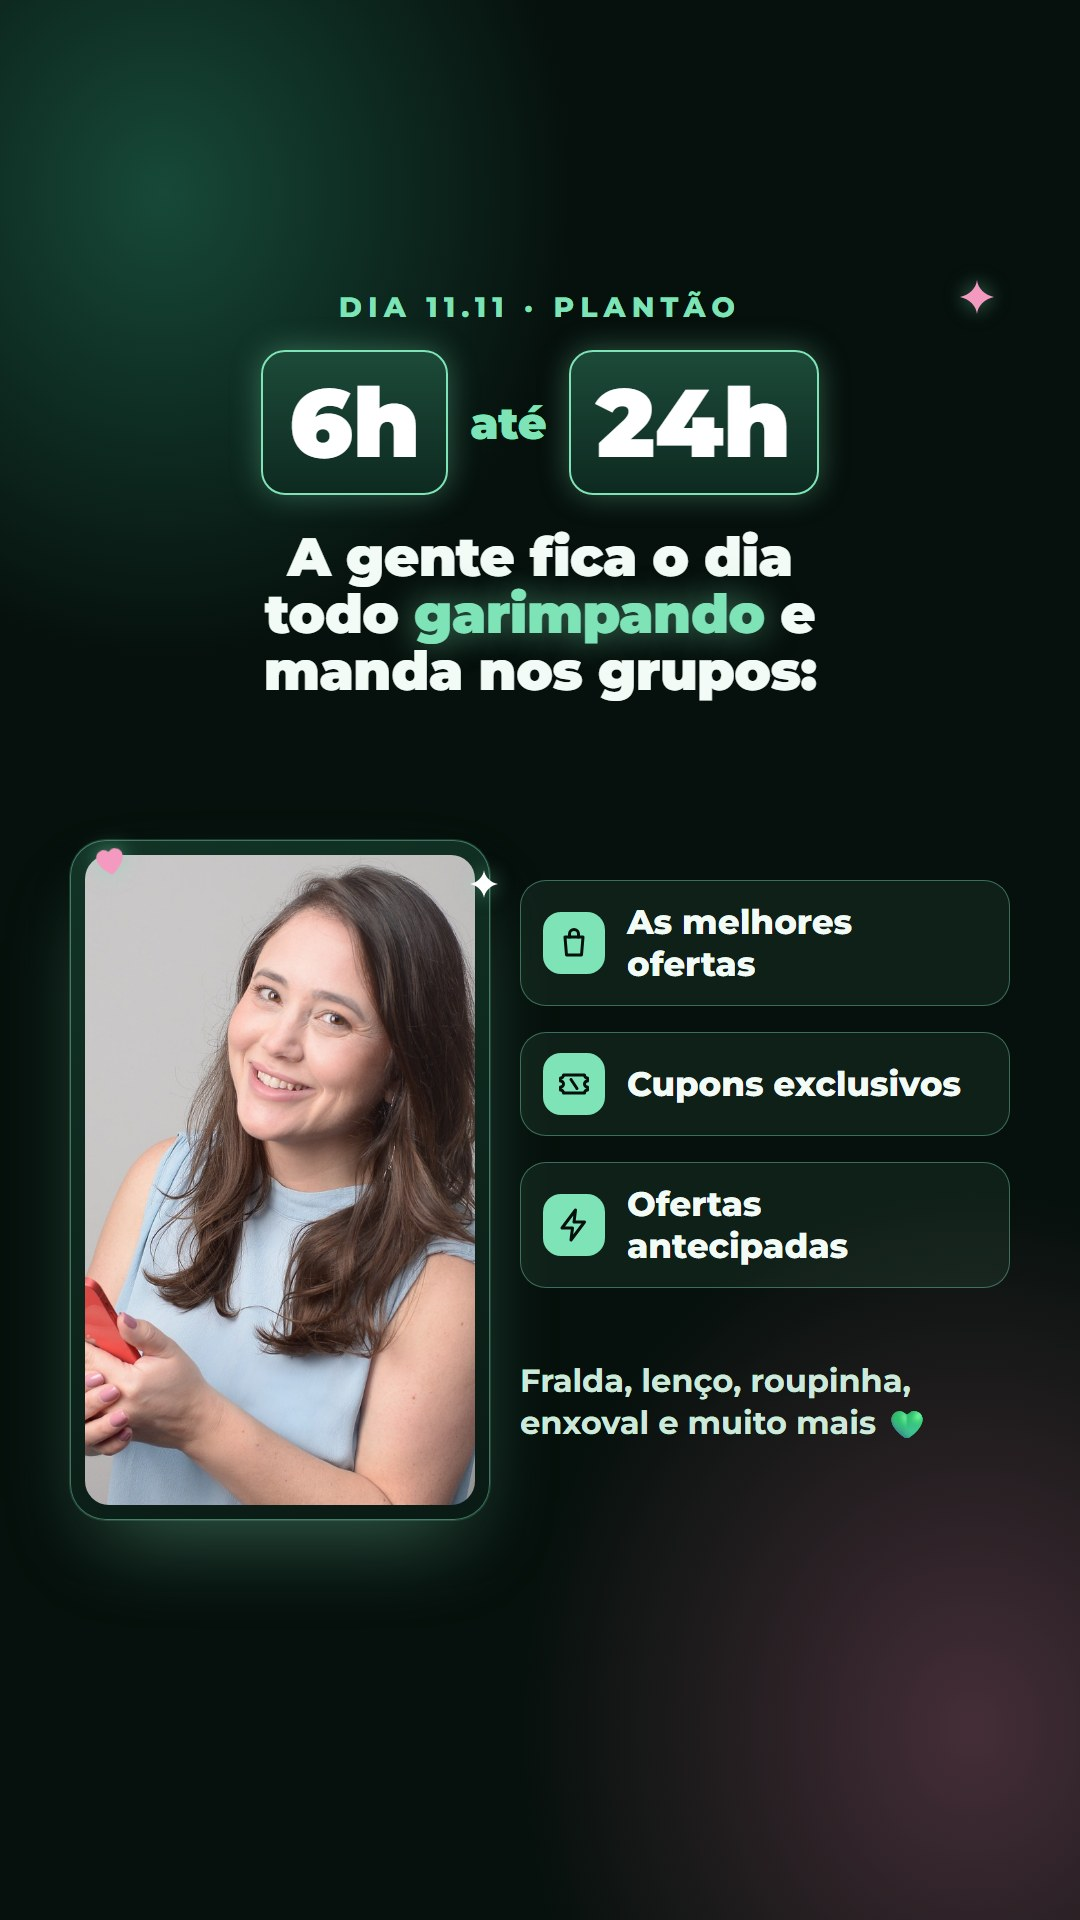
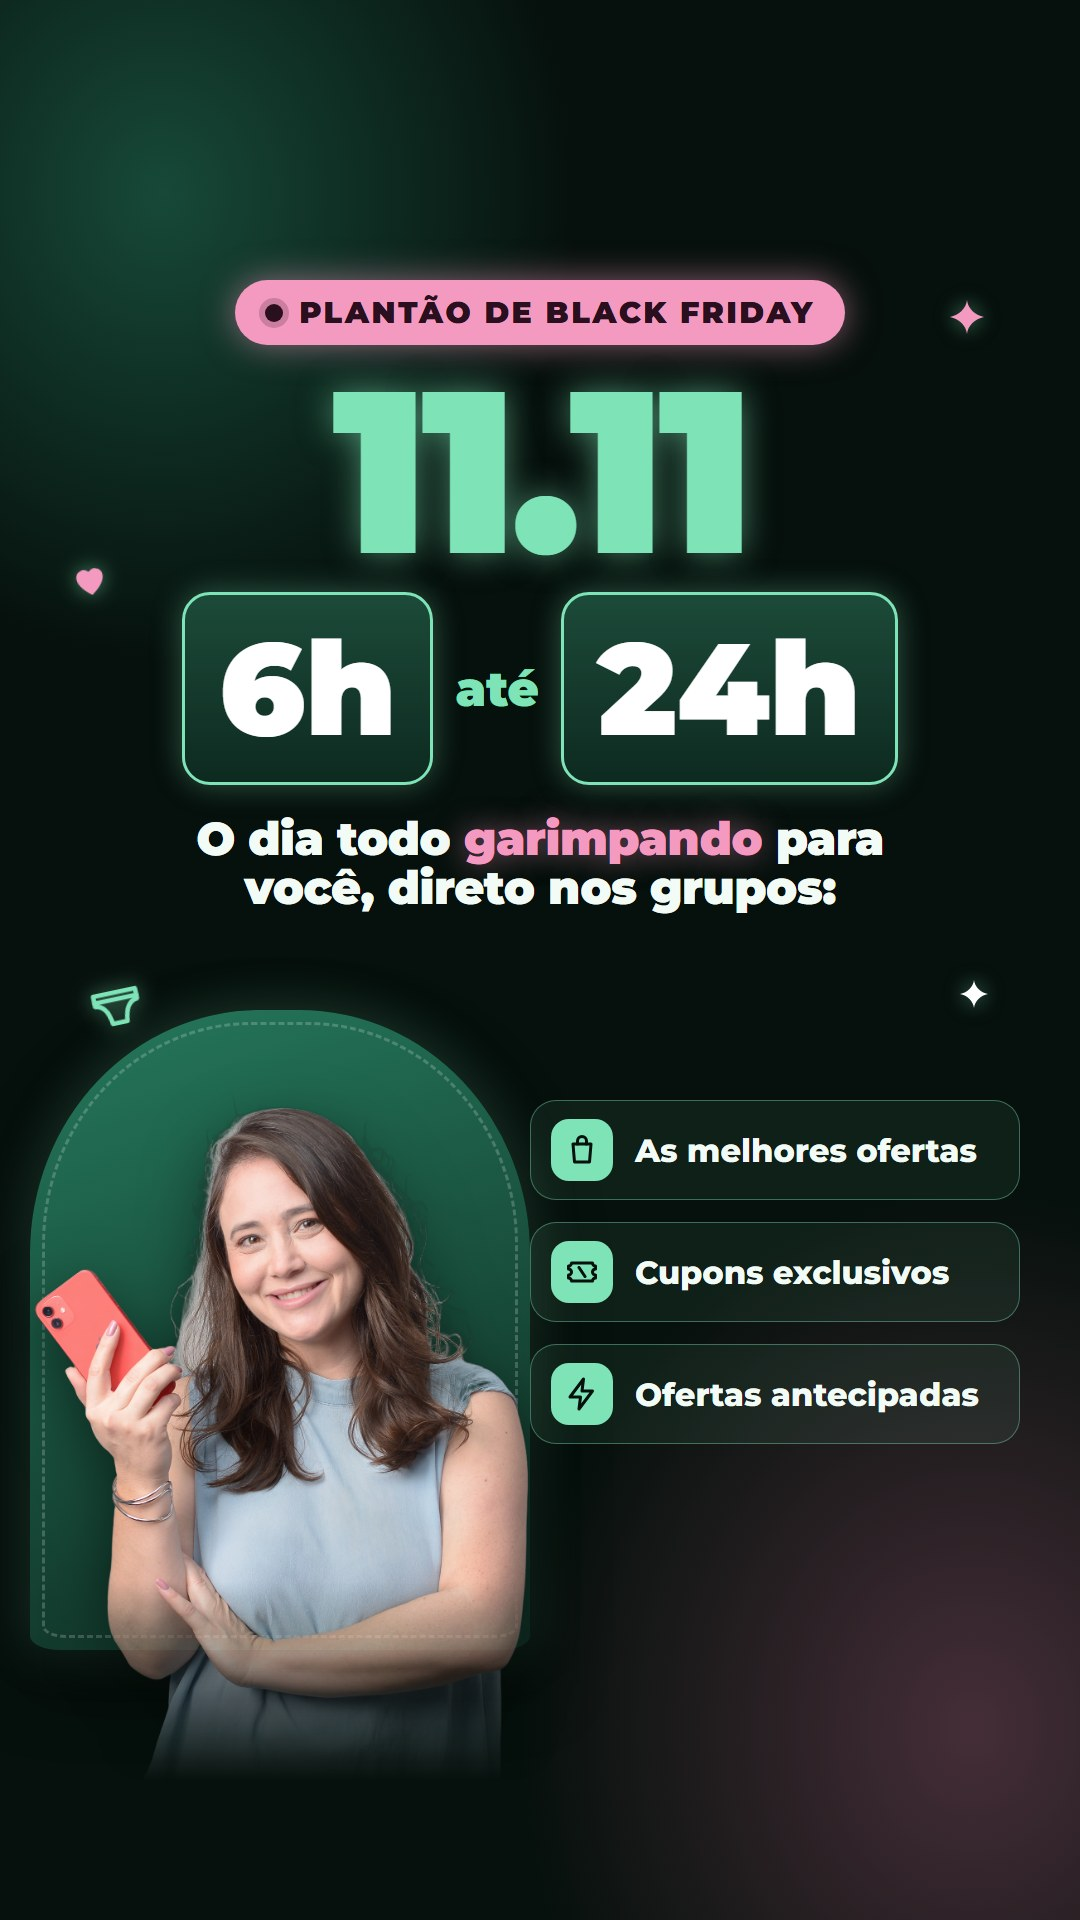
previa: stories 11.11 com foto nova da Day e plantao em destaque

diff --git a/2026-11-09-carrossel-black-maternity/index.html b/2026-11-09-carrossel-black-maternity/index.html
@@ -26,7 +26,7 @@ pre{white-space:pre-wrap;background:#1B0F22;border:1px solid #3A2346;border-radi
 <h2>Stories (sequência de 3)</h2><p class="n">Mesma pegada do carrossel. A pessoa responde o story com MATERNITY e recebe o link no direct.</p>
 <div class="car"><figure class='st'><img src='story1.jpg?v=2' alt='Story 1' loading='lazy'><figcaption>1</figcaption></figure><figure class='st'><img src='story2.jpg?v=2' alt='Story 2' loading='lazy'><figcaption>2</figcaption></figure><figure class='st'><img src='story3.jpg?v=3' alt='Story 3' loading='lazy'><figcaption>3</figcaption></figure></div>
 <h2>Stories 11.11 · Ofertas Maternas</h2><p class="n">Plantão das 6h às 24h nos grupos. No 3º, o retângulo tracejado é onde entra o adesivo de link do Instagram, com este link:<br><span style="word-break:break-all;color:#F6EEF7">https://brunotropolis.github.io/bio-ofertas-maternas/?utm_source=instagram&amp;utm_medium=stories&amp;utm_campaign=black-1111</span></p>
-<div class="car"><figure class='st'><img src='of1.jpg?v=1' alt='Story Ofertas 1' loading='lazy'><figcaption>1</figcaption></figure><figure class='st'><img src='of2.jpg?v=1' alt='Story Ofertas 2' loading='lazy'><figcaption>2</figcaption></figure><figure class='st'><img src='of3.jpg?v=1' alt='Story Ofertas 3' loading='lazy'><figcaption>3</figcaption></figure></div>
+<div class="car"><figure class='st'><img src='of1.jpg?v=2' alt='Story Ofertas 1' loading='lazy'><figcaption>1</figcaption></figure><figure class='st'><img src='of2.jpg?v=2' alt='Story Ofertas 2' loading='lazy'><figcaption>2</figcaption></figure><figure class='st'><img src='of3.jpg?v=2' alt='Story Ofertas 3' loading='lazy'><figcaption>3</figcaption></figure></div>
 <h2>Legenda</h2><pre>A melhor hora para se preparar para o bebê é antes dele chegar. 🤰
 
 Na Black Maternity você chega em casa sabendo o que fazer, da primeira mamada ao primeiro ano. Mais de 70% de desconto e bônus especiais no grupo VIP.
